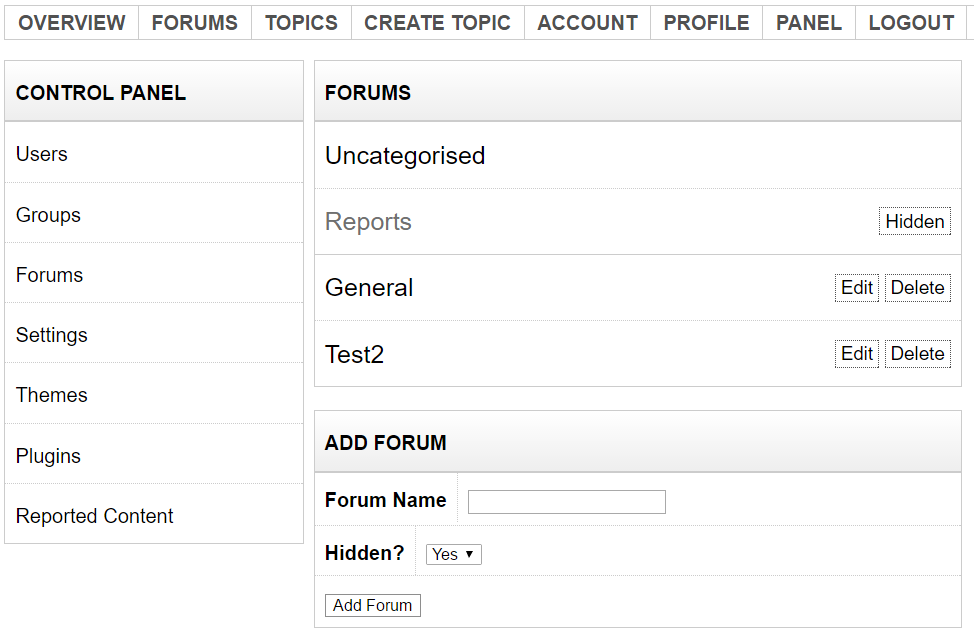
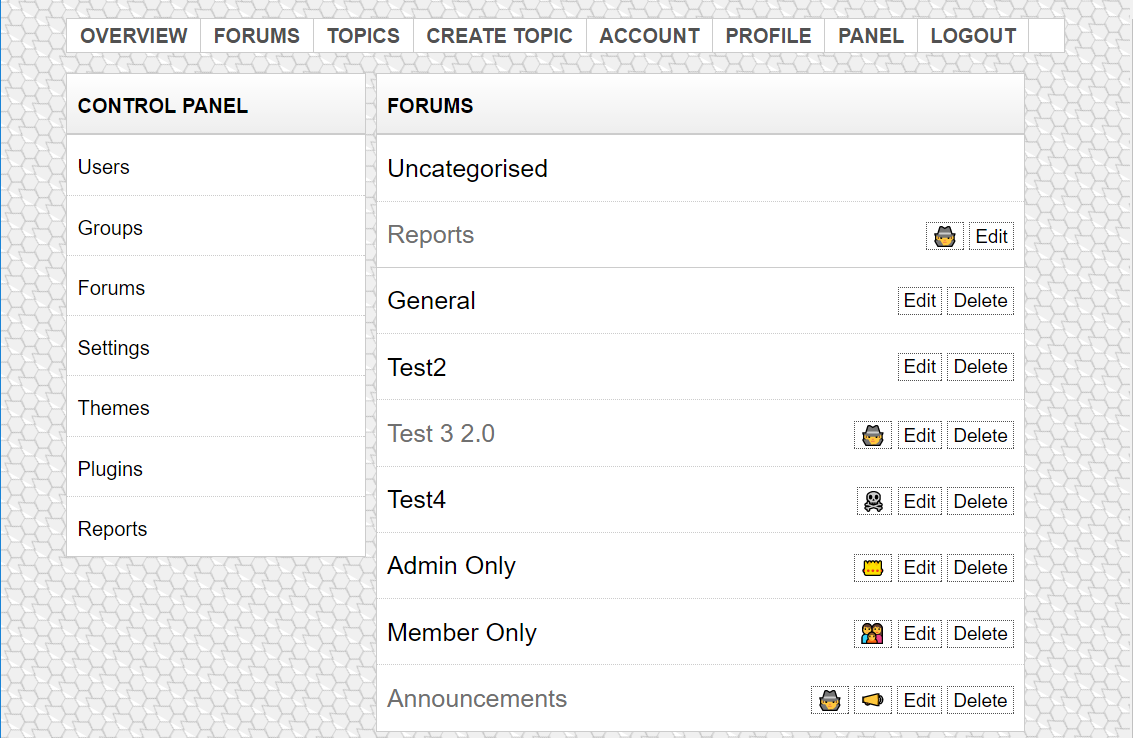
You can now change the permission preset of a forum. More granular permission changes coming soon. The permission presets are now shown on the Forum Manager. The hidden state of a forum is now represented with a spy emoji on the Forum Manager.

Changed region(s): [[0.0, 0.0, 1.0, 1.0]]

diff --git a/templates/panel-forums.html b/templates/panel-forums.html
@@ -1,6 +1,9 @@
 {{template "header.html" . }}
 {{template "panel-menu.html" . }}
-<script>var form_vars = {'forum-active': ['Hide','Show']};</script>
+<script>var form_vars = {
+	'forum-active': ['Hide','Show'],
+	'forum-preset': ['all','announce','members','staff','admins','archive','custom']};
+</script>
 <div class="colblock_right">
 	<div class="rowitem rowhead"><a>Forums</a></div>
 </div>
@@ -9,7 +12,9 @@
 	<div class="rowitem editable_parent" style="font-weight: normal;{{if eq .ID 1}}border-bottom-style:solid;{{end}}">
 		<a data-field="forum-name" data-type="text" class="editable_block" style="font-size: 20px;position:relative;top: -2px;text-transform: none;{{if not .Active}}color:#707070;{{end}}">{{.Name}}</a>
 		<span style="float: right;">
-		<span data-field="forum-active" data-type="list" class="username editable_block hide_on_zero" style="color: black;{{if .Active}}display:none;" data-value="1"{{else}}" data-value="0"{{end}}>Hidden</span>
+		<span data-field="forum-active" data-type="list" class="username editable_block hide_on_zero" title="Hidden" style="color: black;{{if .Active}}display:none;" data-value="1"{{else}}" data-value="0"{{end}}>🕵</span>
+		{{if .PresetEmoji}}<span data-field="forum-preset" data-type="list" data-value="{{.Preset}}" class="username editable_block" title="{{.PresetLang}}">{{.PresetEmoji}}</span>
+		{{else if .PresetLang}}<span data-field="forum-preset" data-type="list" data-value="{{.Preset}}" class="username editable_block">{{.PresetLang}}</span>{{else}}<span data-field="forum-preset" data-type="list" data-value="{{.Preset}}" class="username editable_block" style="display:none;">{{.PresetLang}}</span>{{end}}
 		{{if gt .ID 0}}<a class="username edit_fields hide_on_edit">Edit</a>
 		<a href="/panel/forums/edit/submit/{{.ID}}"><button class='username submit_edit show_on_edit' type='submit'>Update</button></a>{{end}}
 		{{if gt .ID 1}}<a href="/panel/forums/delete/{{.ID}}?session={{$.CurrentUser.Session}}" class="username">Delete</a>{{end}}

diff --git a/mod_routes.go b/mod_routes.go
@@ -700,7 +700,8 @@ func route_panel_forums(w http.ResponseWriter, r *http.Request){
 	var forumList []interface{}
 	for _, forum := range forums {
 		if forum.Name != "" {
-			forumList = append(forumList,forum)
+			fadmin := ForumAdmin{forum.ID,forum.Name,forum.Active,forum.Preset,forum.TopicCount,preset_to_lang(forum.Preset),preset_to_emoji(forum.Preset)}
+			forumList = append(forumList,fadmin)
 		}
 	}
 	pi := Page{"Forum Manager",user,noticeList,forumList,nil}
@@ -729,7 +730,7 @@ func route_panel_forums_create_submit(w http.ResponseWriter, r *http.Request){
 	
 	var active bool
 	fname := r.PostFormValue("forum-name")
-	fpreset := r.PostFormValue("forum-preset")
+	fpreset := strip_invalid_preset(r.PostFormValue("forum-preset"))
 	factive := r.PostFormValue("forum-name")
 	if factive == "on" || factive == "1" {
 		active = true
@@ -737,7 +738,7 @@ func route_panel_forums_create_submit(w http.ResponseWriter, r *http.Request){
 		active = false
 	}
 	
-	fid, err := create_forum(fname,active)
+	fid, err := create_forum(fname,active,fpreset)
 	if err != nil {
 		InternalError(err,w,r,user)
 		return
@@ -866,16 +867,17 @@ func route_panel_forums_edit_submit(w http.ResponseWriter, r *http.Request) {
 	}
 	
 	forum_name := r.PostFormValue("forum-name")
+	forum_preset := strip_invalid_preset(r.PostFormValue("forum-preset"))
 	forum_active := r.PostFormValue("forum-active")
     if (fid > forumCapCount) || (fid < 0) || forums[fid].Name=="" {
 		LocalErrorJSQ("The forum you're trying to edit doesn't exist.",w,r,user,is_js)
 		return
 	}
 	
-	if forum_name == "" && forum_active == "" {
+	/*if forum_name == "" && forum_active == "" {
 		LocalErrorJSQ("You haven't changed anything!",w,r,user,is_js)
 		return
-	}
+	}*/
 	
 	if forum_name == "" {
 		forum_name = forums[fid].Name
@@ -890,7 +892,7 @@ func route_panel_forums_edit_submit(w http.ResponseWriter, r *http.Request) {
 		active = false
 	}
 	
-	_, err = update_forum_stmt.Exec(forum_name,active,fid)
+	_, err = update_forum_stmt.Exec(forum_name,active,forum_preset,fid)
 	if err != nil {
 		InternalErrorJSQ(err,w,r,user,is_js)
 		return
@@ -902,6 +904,11 @@ func route_panel_forums_edit_submit(w http.ResponseWriter, r *http.Request) {
 	if forums[fid].Active != active {
 		forums[fid].Active = active
 	}
+	if forums[fid].Preset != forum_preset {
+		forums[fid].Preset = forum_preset
+	}
+	
+	permmap_to_query(preset_to_permmap(forum_preset),fid)
 	
 	if is_js == "0" {
 		http.Redirect(w,r,"/panel/forums/",http.StatusSeeOther)

diff --git a/mysql.go b/mysql.go
@@ -361,7 +361,7 @@ func init_database(err error) {
 	}
 	
 	log.Print("Preparing create_forum statement.")
-	create_forum_stmt, err = db.Prepare("INSERT INTO forums(name,active) VALUES(?,?)")
+	create_forum_stmt, err = db.Prepare("INSERT INTO forums(name,active,preset) VALUES(?,?,?)")
 	if err != nil {
 		log.Fatal(err)
 	}
@@ -374,7 +374,7 @@ func init_database(err error) {
 	}
 	
 	log.Print("Preparing update_forum statement.")
-	update_forum_stmt, err = db.Prepare("update forums set name = ?, active = ? where fid = ?")
+	update_forum_stmt, err = db.Prepare("update forums set name = ?, active = ?, preset = ? where fid = ?")
 	if err != nil {
 		log.Fatal(err)
 	}
@@ -502,10 +502,10 @@ func init_database(err error) {
 	
 	log.Print("Loading the forums.")
 	log.Print("Adding the uncategorised forum")
-	forums = append(forums, Forum{0,"Uncategorised",uncategorised_forum_visible,0,"",0,"",0,""})
+	forums = append(forums, Forum{0,"Uncategorised",uncategorised_forum_visible,"all",0,"",0,"",0,""})
 	
 	//rows, err = db.Query("SELECT fid, name, active, lastTopic, lastTopicID, lastReplyer, lastReplyerID, lastTopicTime FROM forums")
-	rows, err = db.Query("select fid, name, active, topicCount, lastTopic, lastTopicID, lastReplyer, lastReplyerID, lastTopicTime from forums order by fid asc")
+	rows, err = db.Query("select fid, name, active, preset, topicCount, lastTopic, lastTopicID, lastReplyer, lastReplyerID, lastTopicTime from forums order by fid asc")
 	if err != nil {
 		log.Fatal(err)
 	}
@@ -513,8 +513,8 @@ func init_database(err error) {
 	
 	i = 1
 	for ;rows.Next();i++ {
-		forum := Forum{0,"",true,0,"",0,"",0,""}
-		err := rows.Scan(&forum.ID, &forum.Name, &forum.Active, &forum.TopicCount, &forum.LastTopic, &forum.LastTopicID, &forum.LastReplyer, &forum.LastReplyerID, &forum.LastTopicTime)
+		forum := Forum{ID:0,Name:"",Active:true,Preset:"all"}
+		err := rows.Scan(&forum.ID, &forum.Name, &forum.Active, &forum.Preset, &forum.TopicCount, &forum.LastTopic, &forum.LastTopicID, &forum.LastReplyer, &forum.LastReplyerID, &forum.LastTopicTime)
 		if err != nil {
 			log.Fatal(err)
 		}

diff --git a/forum.go b/forum.go
@@ -2,11 +2,24 @@ package main
 import "database/sql"
 import _ "github.com/go-sql-driver/mysql"
 
+type ForumAdmin struct
+{
+	ID int
+	Name string
+	Active bool
+	Preset string
+	TopicCount int
+	
+	PresetLang string
+	PresetEmoji string
+}
+
 type Forum struct
 {
 	ID int
 	Name string
 	Active bool
+	Preset string
 	TopicCount int
 	LastTopic string
 	LastTopicID int
@@ -20,25 +33,27 @@ type ForumSimple struct
 	ID int
 	Name string
 	Active bool
+	Preset string
 }
 
-func create_forum(forum_name string, active bool) (int, error) {
+func create_forum(forum_name string, active bool, preset string) (int, error) {
 	var fid int
 	err := forum_entry_exists_stmt.QueryRow().Scan(&fid)
 	if err != nil && err != sql.ErrNoRows {
 		return 0, err
 	}
 	if err != sql.ErrNoRows {
-		_, err = update_forum_stmt.Exec(forum_name, active, fid)
+		_, err = update_forum_stmt.Exec(forum_name, active, preset, fid)
 		if err != nil {
 			return fid, err
 		}
 		forums[fid].Name = forum_name
 		forums[fid].Active = active
+		forums[fid].Preset = preset
 		return fid, nil
 	}
 	
-	res, err := create_forum_stmt.Exec(forum_name, active)
+	res, err := create_forum_stmt.Exec(forum_name, active, preset)
 	if err != nil {
 		return 0, err
 	}
@@ -49,7 +64,7 @@ func create_forum(forum_name string, active bool) (int, error) {
 	}
 	fid = int(fid64)
 	
-	forums = append(forums, Forum{fid,forum_name,active,0,"",0,"",0,""})
+	forums = append(forums, Forum{fid,forum_name,active,preset,0,"",0,"",0,""})
 	return fid, nil
 }
 

diff --git a/permissions.go b/permissions.go
@@ -299,3 +299,54 @@ func rebuild_forum_permissions(fid int) error {
 func build_forum_permissions() error {
 	return nil
 }
+
+func strip_invalid_preset(preset string) string {
+	switch(preset) {
+		case "all":
+		case "announce":
+		case "members":
+		case "staff":
+		case "admins":
+		case "archive":
+			break
+		default:
+			return ""
+	}
+	return preset
+}
+
+func preset_to_lang(preset string) string {
+	switch(preset) {
+		case "all":
+			return ""//return "Everyone"
+		case "announce":
+			return "Announcements"
+		case "members":
+			return "Member Only"
+		case "staff":
+			return "Staff Only"
+		case "admins":
+			return "Admin Only"
+		case "archive":
+			return "Archive"
+	}
+	return ""
+}
+
+func preset_to_emoji(preset string) string {
+	switch(preset) {
+		case "all":
+			return ""//return "Everyone"
+		case "announce":
+			return "📣"
+		case "members":
+			return "👪"
+		case "staff":
+			return "👮"
+		case "admins":
+			return "👑"
+		case "archive":
+			return "☠"
+	}
+	return ""
+}

diff --git a/main.go b/main.go
@@ -78,7 +78,7 @@ func compile_templates() {
 	topics_page := TopicsPage{"Topic List",user,noticeList,topicList,""}
 	topics_tmpl := c.compile_template("topics.html","templates/","TopicsPage", topics_page, varList)
 	
-	forum_item := Forum{1,"General Forum",true,0,"",0,"",0,""}
+	forum_item := Forum{1,"General Forum",true,"all",0,"",0,"",0,""}
 	forum_page := ForumPage{"General Forum",user,noticeList,topicList,forum_item,1,1,nil}
 	forum_tmpl := c.compile_template("forum.html","templates/","ForumPage", forum_page, varList)
 	

diff --git a/utils.go b/utils.go
@@ -186,7 +186,7 @@ func getLevels(maxLevel int) []float64 {
 }
 
 func fill_forum_id_gap(biggerID int, smallerID int) {
-	dummy := Forum{0,"",false,0,"",0,"",0,""}
+	dummy := Forum{ID:0,Name:"",Active:false,Preset:"all"}
 	for i := smallerID; i > biggerID;i++ {
 		forums = append(forums, dummy)
 	}

diff --git a/template_topic.go b/template_topic.go
@@ -1,8 +1,8 @@
 /* This file was automatically generated by the software. Please don't edit it as your changes may be overwritten at any moment. */
 package main
+import "io"
 import "strconv"
 import "html/template"
-import "io"
 
 func init() {
 	template_topic_handle = template_topic
